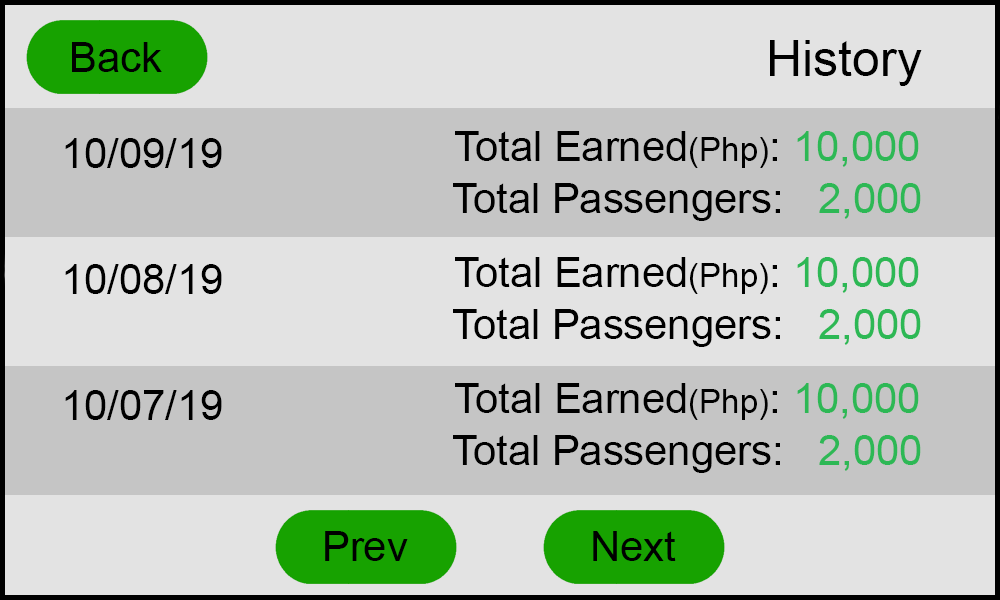
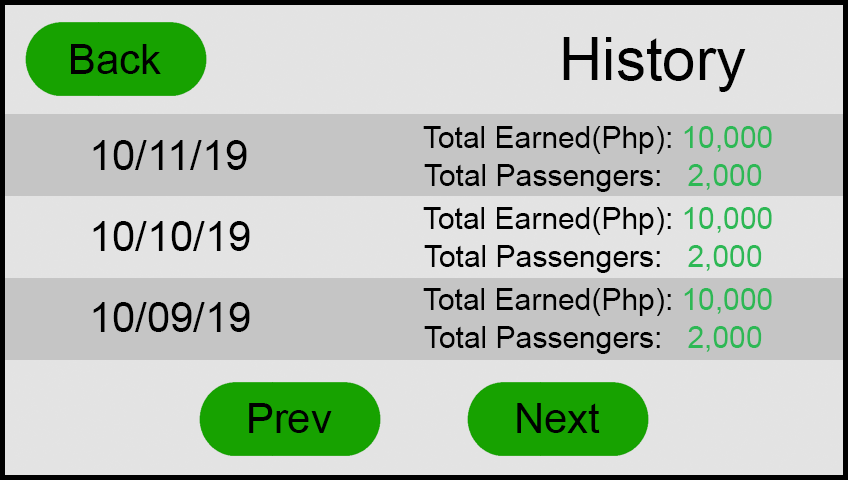
Resized UI for history screen to 848x480

diff --git a/mainUI.py b/mainUI.py
@@ -84,11 +84,11 @@ def mainUI(window):
 
     #### NEXT ####
     nextB = Button (hist_frame, image=nx, width=182, height=74, bd=0, bg="#e3e3e3", activebackground="#e3e3e3", command=lambda: [main_frame.pack(expand=1,fill=BOTH),hist_frame.pack_forget()])
-    nextB.place(bordermode=OUTSIDE,x=540,y=510)
+    nextB.place(bordermode=OUTSIDE,x=465,y=380)
 
     #### PREVIOUS ####
     prevB = Button (hist_frame, image=pv, width=182, height=74, bd=0, bg="#e3e3e3", activebackground="#e3e3e3", command=lambda: [main_frame.pack(expand=1,fill=BOTH),hist_frame.pack_forget()])
-    prevB.place(bordermode=OUTSIDE,x=275,y=510)
+    prevB.place(bordermode=OUTSIDE,x=200,y=380)
 
     window.mainloop() #Start
 
